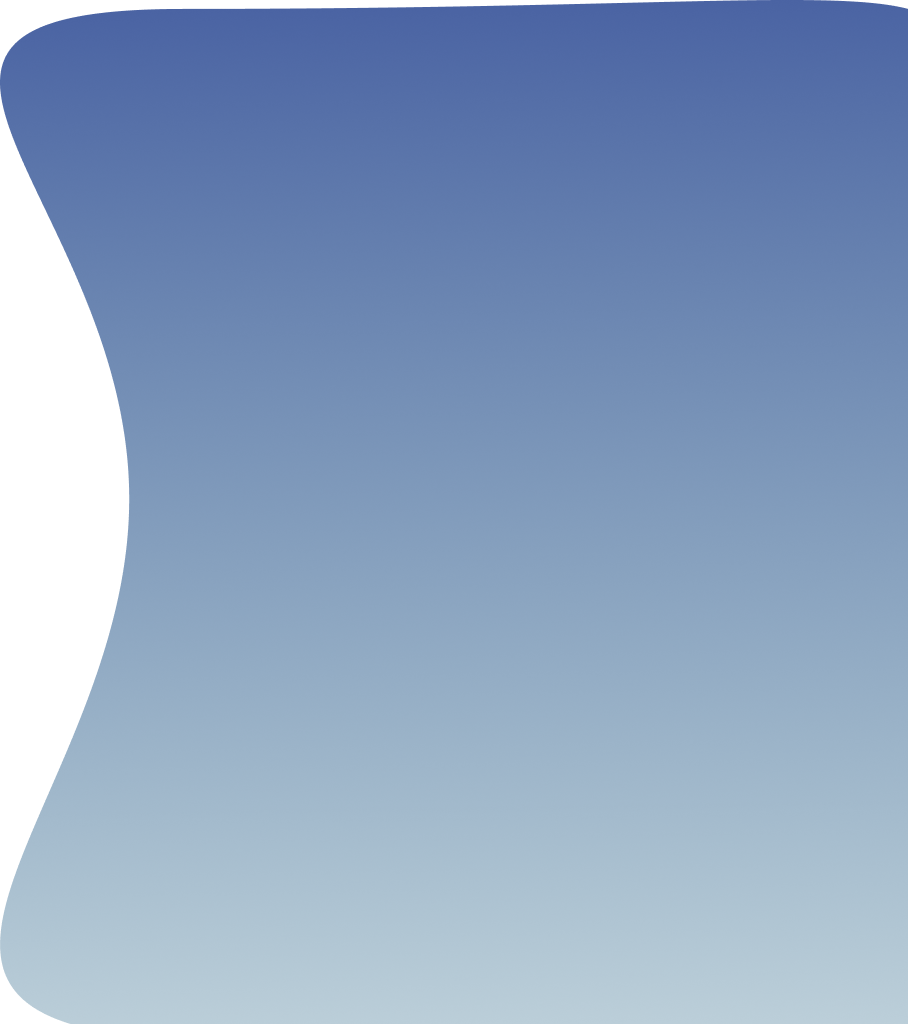
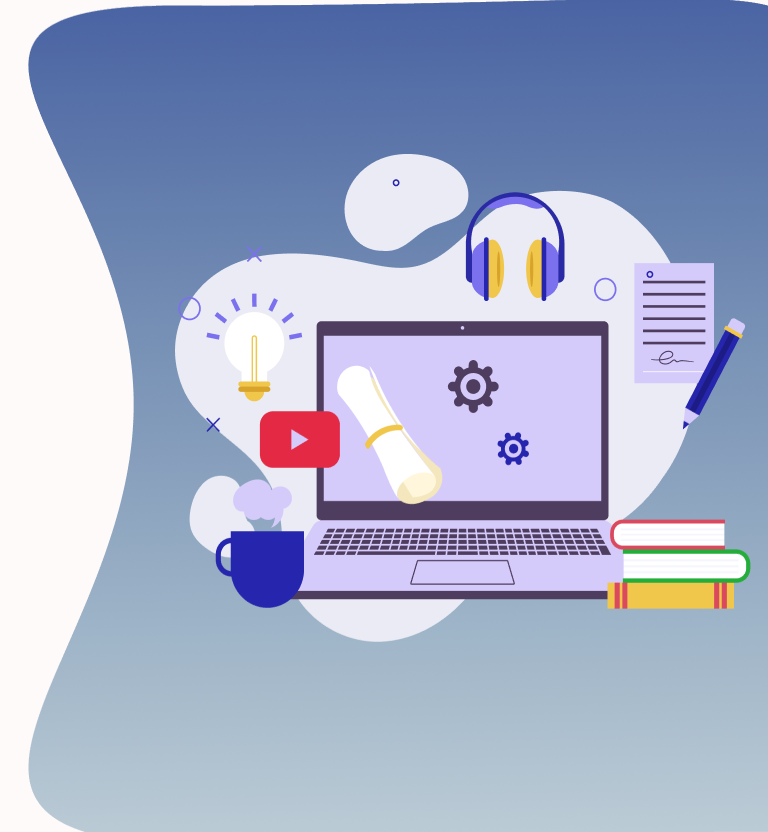
Updated Signup pages

diff --git a/src/components/signup/password.js b/src/components/signup/password.js
@@ -2,7 +2,6 @@ import React from "react";
 import {Link} from "react-router-dom";
 import logo from "../../assets/images/logo.png"
 import background from "../../assets/images/background.png"
-import frame from "../../assets/images/Frame.png"
 import 'bootstrap/dist/css/bootstrap.min.css';
 import styles from  './password.module.css';
 function password(){
@@ -40,9 +39,8 @@ function password(){
             </form>
         </div>
             </div>
-        <div class="col-5 vh-1030">
+        <div className={styles.back}>
             <img src={background} alt="back4" id={styles.back4} />
-            <img src={frame} alt="frame" className={styles.overlay4}/>
         </div>
         </div>
         

diff --git a/src/components/signup/signup.js b/src/components/signup/signup.js
@@ -2,7 +2,6 @@ import React from "react";
 import {Link} from "react-router-dom";
 import logo from "../../assets/images/logo.png"
 import background from "../../assets/images/background.png"
-import frame from "../../assets/images/Frame.png"
 import 'bootstrap/dist/css/bootstrap.min.css';
 import styles from './signup.module.css';
 function signup(){
@@ -54,9 +53,8 @@ function signup(){
             </form>
         </div>
             </div>
-        <div class="col-5">
+        <div className={styles.back}>
             <img src={background} alt="back" id={styles.back2} />
-            <img src={frame} alt="frame" className={styles.overlay2}/>
         </div>
         </div>
         

diff --git a/src/components/signup/login.js b/src/components/signup/login.js
@@ -2,7 +2,6 @@ import React from "react";
 import {Link} from "react-router-dom";
 import logo from "../../assets/images/logo.png"
 import background from "../../assets/images/background.png"
-import frame from "../../assets/images/Frame.png"
 import 'bootstrap/dist/css/bootstrap.min.css';
 import styles from  './login.module.css';
 function login(){
@@ -36,9 +35,8 @@ function login(){
             </form>
         </div>
             </div>
-        <div class="col-5">
+        <div className={styles.back}>
             <img src={background} alt="back" id={styles.back3} />
-            <img src={frame} alt="frame" className={styles.overlay3}/>
         </div>
         </div>
         

diff --git a/src/components/signup/home.js b/src/components/signup/home.js
@@ -2,7 +2,6 @@ import React from "react";
 import {Link} from "react-router-dom";
 import logo from "../../assets/images/logo.png"
 import background from "../../assets/images/background.png"
-import frame from "../../assets/images/Frame.png"
 import 'bootstrap/dist/css/bootstrap.min.css';
 import styles from "./home.module.css";
 function home(){
@@ -44,9 +43,8 @@ function home(){
             </Link>
            
         </div>
-        <div class="col-5">
+        <div className={styles.back}>
             <img src={background} alt="back1" id={styles.back1}/>
-            <img src={frame} alt="frame" className={styles.overlay1}/>
         </div>
     </div>  
     )

diff --git a/src/components/signup/signup.module.css b/src/components/signup/signup.module.css
@@ -1,5 +1,5 @@
 body{
-  background-color: #f5f4f7;
+    background-color: #fffafa;
 }
 
 .signup p{
@@ -39,18 +39,14 @@ font-family:'Lucida Sans', 'Lucida Sans Regular', 'Lucida Grande', 'Lucida Sans 
 
   }
 
-#back2{
-    position: relative;
-    top:-10px;
-    margin-left:200px;
-}
-
-.overlay2{
-    position: relative;
-    margin-top:-1000px;
-    left:350px;
-    background-color: transparent;
-}
+  .back{
+    display: flex;
+    flex-direction: column;
+    left:-3px;
+    height:100vh;
+    width:850px;
+    margin-left:265px;
+   }
 
 
 

diff --git a/src/App.js b/src/App.js
@@ -31,10 +31,10 @@ function App() {
     <Router>
       <Routes>
         {/* Public Routes */}
-        {/* <Route path="/" element={<Starter />} />
+        <Route path="/" element={<Starter />} />
         <Route path="/signup" element={<SignUp />} />
         <Route path="/login" element={<Login setUserType={setUserType} setIsLoggedIn={setIsLoggedIn} />} />
-        <Route path="/password" element={<Password />} /> */}
+        <Route path="/password" element={<Password />} />
 
         {/* Student Routes */}
         <Route 

diff --git a/src/components/signup/password.module.css b/src/components/signup/password.module.css
@@ -1,5 +1,5 @@
 body{
-    background-color: #f5f4f7;
+  background-color: #fffafa;
   }
   
   .pass p{
@@ -33,18 +33,15 @@ body{
   }
 
 
-  #back4{
-    position: relative;
-    top:-10px;
-    margin-left:200px;
-}
+  .back{
+    display: flex;
+    flex-direction: column;
+    left:-3px;
+    height:100vh;
+    width:850px;
+    margin-left:265px;
+   }
 
-.overlay4{
-    position: relative;
-    margin-top:-1000px;
-    left:350px;
-    background-color: transparent;
-}
   
 .btn{
       background-color: #2525ad;

diff --git a/src/components/signup/home.module.css b/src/components/signup/home.module.css
@@ -1,19 +1,15 @@
 body{
-  background-color: #f5f4f7;
+  background-color: #fffafa;
 }
 
 
-#back1{
-  position: relative;
-  top:-10px;
-  margin-left:200px;
-}
-
-.overlay1{
-  position: relative;
-  margin-top:-1000px;
-  left:350px;
-  background-color: transparent;
+.back{
+ display: flex;
+ flex-direction: column;
+ left:-3px;
+ height:100vh;
+ width:850px;
+ margin-left:265px;
 }
 
 
@@ -32,9 +28,6 @@ h1{
     font-weight: 900;
     font-size:45px;
 }
-
-
-
 
 .btn1, .btn2, .btn3{
     position: relative;

diff --git a/src/components/signup/login.module.css b/src/components/signup/login.module.css
@@ -1,5 +1,5 @@
 body{
-  background-color: #f5f4f7;
+  background-color: #fffafa;
 }
 
 .login{
@@ -38,18 +38,16 @@ h1{
  }
 
 
-#back3{
-    position: relative;
-    top:-10px;
-    margin-left:200px;
-}
+ .back{
+  display: flex;
+  flex-direction: column;
+  left:-3px;
+  height:100vh;
+  width:850px;
+  margin-left:265px;
+ }
 
-.overlay3{
-    position: relative;
-    margin-top:-1000px;
-    left:350px;
-    background-color: transparent;
-}
+
  
 .btn{
     background-color: #2525ad;
